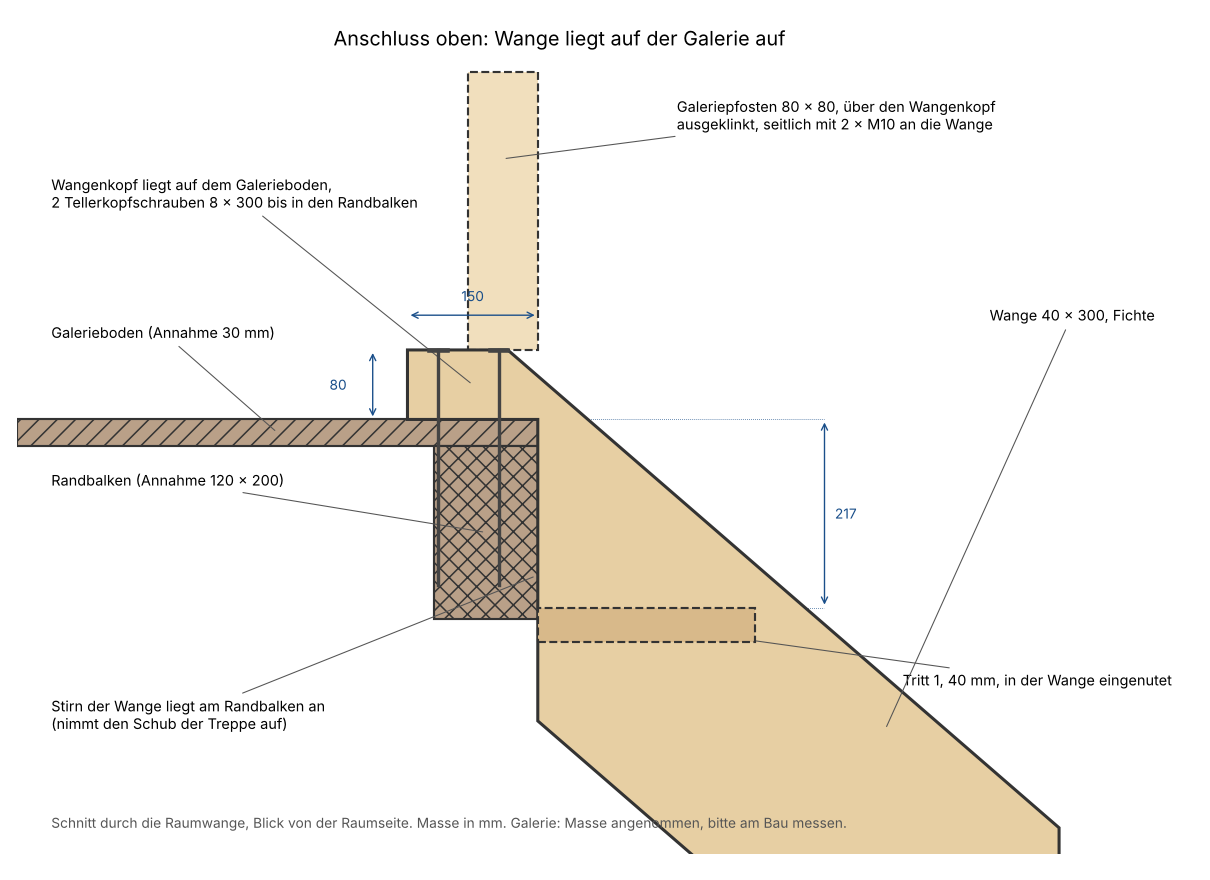
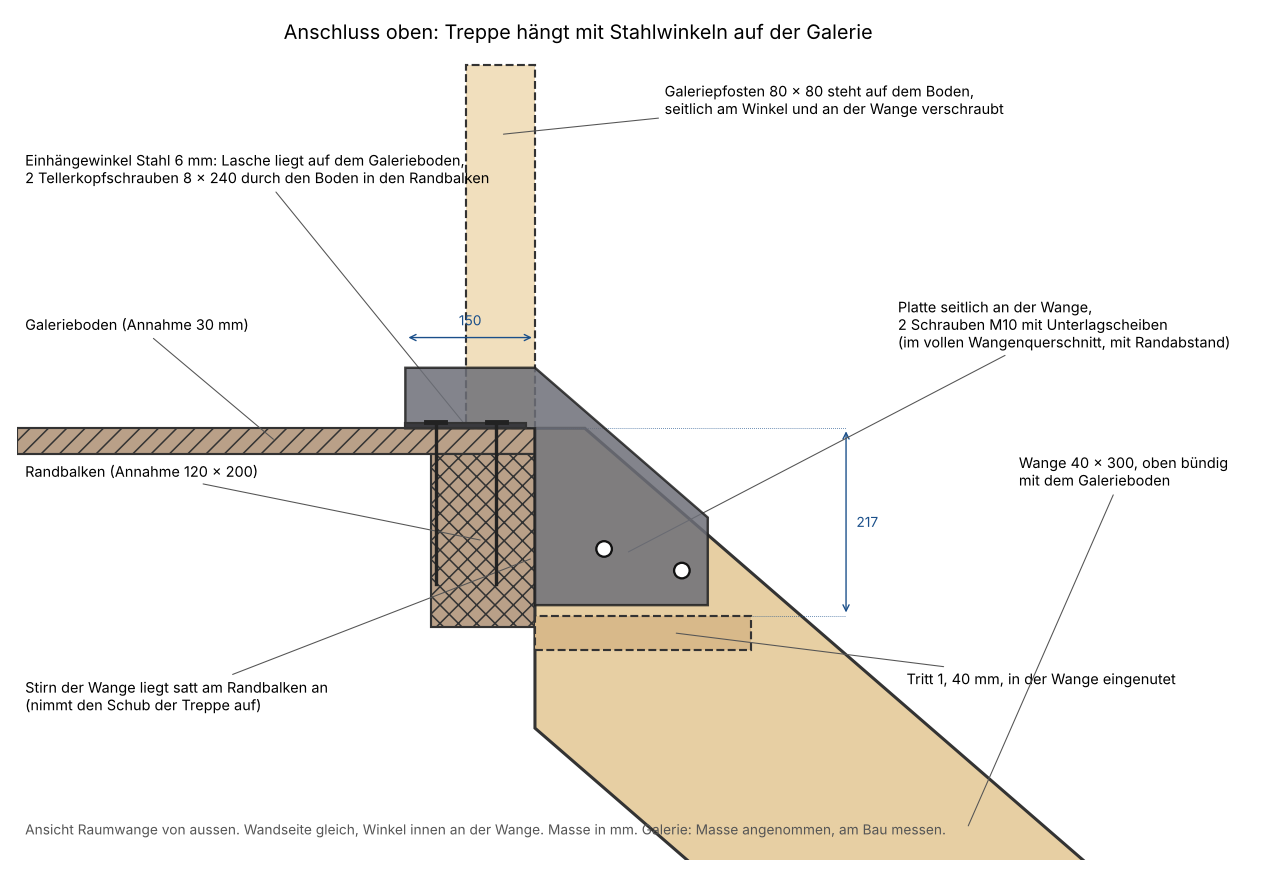
privat-haushalt: Treppe oben mit Stahl-Einhängewinkeln statt Holzkopf
Claude-Session: https://claude.ai/code/session_011MSKcWF1eNiWCkVJncpmSo

diff --git a/areas/privat-haushalt/treppe/schnitt_galerie.py b/areas/privat-haushalt/treppe/schnitt_galerie.py
@@ -1,46 +1,48 @@
-import sys; sys.argv=['x']
-exec(open('treppe_cq.py').read().split('# ================= Podest')[0])
-import math
-exec(open('treppe_cq.py').read().split('# ================= Obere Treppe =================')[1].split('treadsU = []')[0].replace('add(','dict(')) if False else None
+# Schnitt Anschluss oben an die Galerie (Ansicht Raumwange). Liest die Masse aus treppe_cq.py.
+import math, sys
+src = open('treppe_cq.py').read()
+exec(src.split('asm = cq.Assembly')[0])
 LU = lambda x: GAL - (HU / GU) * x
-dU = WB / math.cos(math.atan(HU / GU)); zRo = PH - BEL; RB=60
-x_k = (LU(0) + UEB - GAL - KH) * GU / HU
-prof = [(-HK, GAL), (-HK, GAL + KH), (x_k, GAL + KH), (600, LU(600) + UEB), (600, LU(600) + UEB - dU), (0, LU(0) + UEB - dU), (0, GAL)]
+dU = WB / math.cos(math.atan(HU / GU))
+x_top = (LU(0) + UEB - GAL) * GU / HU
+zW0 = GAL - HU + 12
+prof = [(0, GAL), (x_top, GAL), (650, LU(650) + UEB), (650, LU(650) + UEB - dU), (0, LU(0) + UEB - dU)]
+wink = [(-HK, GAL), (-HK, GAL + 70), (0, GAL + 70), (200, LU(200) + UEB + 20), (200, zW0), (0, zW0), (0, GAL)]
 import matplotlib; matplotlib.use("Agg"); import matplotlib.pyplot as plt
-from matplotlib.patches import Polygon, Rectangle
-fig, ax = plt.subplots(figsize=(11, 8))
-def P(pts, fc, ec="#333", lw=1.4, hatch=None, z=1, ls="-"):
-    ax.add_patch(Polygon(pts, closed=True, fc=fc, ec=ec, lw=lw, hatch=hatch, zorder=z, ls=ls))
-FI = "#e7cfa3"; BE = "#b9a088"
-# Bestand
+from matplotlib.patches import Polygon, Circle
+fig, ax = plt.subplots(figsize=(11.5, 8))
+def P(pts, fc, ec="#333", lw=1.4, hatch=None, z=1, ls="-", alpha=1):
+    ax.add_patch(Polygon(pts, closed=True, fc=fc, ec=ec, lw=lw, hatch=hatch, zorder=z, ls=ls, alpha=alpha))
+FI, BE, ST_ = "#e7cfa3", "#b9a088", "#3a3a3e"
 P([(-600, GAL-GB), (0, GAL-GB), (0, GAL), (-600, GAL)], BE, hatch="//")
 P([(-RBB, GAL-GB-RBH), (0, GAL-GB-RBH), (0, GAL-GB), (-RBB, GAL-GB)], BE, hatch="xx")
-# Wange (Schnitt durch Raumwange), Tritt 1, Pfosten, Handlauf
-P(prof, FI, lw=2, z=3)
-P([(0, GAL-HU-T), (GU, GAL-HU-T), (GU, GAL-HU), (0, GAL-HU)], "#d8b98a", z=4, ls="--")
-pz1 = 2700
-P([(-POST, GAL+KH), (0, GAL+KH), (0, pz1), (-POST, pz1)], "#f1dfbd", z=2, ls="--")
-# Schrauben
+P(prof, FI, lw=2, z=2)
+P([(0, GAL-HU-T), (GU, GAL-HU-T), (GU, GAL-HU), (0, GAL-HU)], "#d8b98a", z=3, ls="--")
+P([(-POST, GAL), (0, GAL), (0, 2720), (-POST, 2720)], "#f1dfbd", z=2, ls="--")
+P(wink, "#6d6f78", ec="#222", lw=1.6, z=5, alpha=0.85)
+P([(-HK, GAL), (-10, GAL), (-10, GAL+6), (-HK, GAL+6)], ST_, z=6)
+for (xx, zz) in [(80, zW0 + 65), (170, zW0 + 40)]:
+    ax.add_patch(Circle((xx, zz), 9, fc="white", ec="#111", lw=1.5, zorder=7))
 for xs in (-115, -45):
-    ax.plot([xs, xs], [GAL+KH, GAL-GB-RBH+40], color="#444", lw=2.2, zorder=6)
-    ax.plot([xs-10, xs+10], [GAL+KH, GAL+KH], color="#444", lw=3, zorder=6)
+    ax.plot([xs, xs], [GAL+6, GAL-GB-RBH+50], color="#222", lw=2.2, zorder=6)
+    ax.plot([xs-11, xs+11], [GAL+7, GAL+7], color="#222", lw=3.2, zorder=7)
 def dim(x0,y0,x1,y1,t,off=(0,0),ha="center"):
     ax.annotate("", (x0,y0), (x1,y1), arrowprops=dict(arrowstyle="<->", lw=0.9, color="#1a4f8a"))
     ax.text((x0+x1)/2+off[0], (y0+y1)/2+off[1], t, color="#1a4f8a", fontsize=9, ha=ha, va="center")
-dim(-HK, GAL+KH+40, 0, GAL+KH+40, f"{HK}", (0,22))
-dim(-HK-40, GAL, -HK-40, GAL+KH, f"{KH}", (-30,0), "right")
-dim(330, GAL, 330, GAL-HU, f"{HU:.0f}", (12,0), "left")
-ax.plot([0, 330], [GAL, GAL], color="#1a4f8a", lw=0.5, ls=":"); ax.plot([GU, 330], [GAL-HU, GAL-HU], color="#1a4f8a", lw=0.5, ls=":")
+dim(-HK, GAL+105, 0, GAL+105, f"{HK}", (0,20))
+dim(360, GAL, 360, GAL-HU, f"{HU:.0f}", (12,0), "left")
+ax.plot([0, 360], [GAL, GAL], color="#1a4f8a", lw=0.5, ls=":"); ax.plot([GU, 360], [GAL-HU, GAL-HU], color="#1a4f8a", lw=0.5, ls=":")
 def lab(x,y,tx,ty,t):
     ax.annotate(t, (x,y), (tx,ty), fontsize=9.5, arrowprops=dict(arrowstyle="-", lw=0.7, color="#555"), va="center")
-lab(-75, GAL+40, -560, 2560, "Wangenkopf liegt auf dem Galerieboden,\n2 Tellerkopfschrauben 8 × 300 bis in den Randbalken")
-lab(-2, 2120, -560, 1960, "Stirn der Wange liegt am Randbalken an\n(nimmt den Schub der Treppe auf)")
-lab(-300, GAL-15, -560, 2400, "Galerieboden (Annahme 30 mm)")
-lab(-60, 2170, -560, 2230, "Randbalken (Annahme 120 × 200)")
-lab(-40, 2600, 160, 2650, "Galeriepfosten 80 × 80, über den Wangenkopf\nausgeklinkt, seitlich mit 2 × M10 an die Wange")
-lab(120, GAL-HU-20, 420, 2000, "Tritt 1, 40 mm, in der Wange eingenutet")
-lab(400, LU(400)+UEB-60, 520, 2420, "Wange 40 × 300, Fichte")
-ax.text(-560, 1830, "Schnitt durch die Raumwange, Blick von der Raumseite. Masse in mm. Galerie: Masse angenommen, bitte am Bau messen.", fontsize=9, color="#555")
-ax.set_xlim(-600, 650); ax.set_ylim(1800, 2720); ax.set_aspect("equal"); ax.axis("off")
-ax.set_title("Anschluss oben: Wange liegt auf der Galerie auf", fontsize=13)
+lab(-80, GAL+3, -590, 2600, "Einhängewinkel Stahl 6 mm: Lasche liegt auf dem Galerieboden,\n2 Tellerkopfschrauben 8 × 240 durch den Boden in den Randbalken")
+lab(105, zW0 + 60, 420, 2420, "Platte seitlich an der Wange,\n2 Schrauben M10 mit Unterlagscheiben\n(im vollen Wangenquerschnitt, mit Randabstand)")
+lab(-2, 2150, -590, 1990, "Stirn der Wange liegt satt am Randbalken an\n(nimmt den Schub der Treppe auf)")
+lab(-300, GAL-15, -590, 2420, "Galerieboden (Annahme 30 mm)")
+lab(-60, 2170, -590, 2250, "Randbalken (Annahme 120 × 200)")
+lab(-40, 2640, 150, 2680, "Galeriepfosten 80 × 80 steht auf dem Boden,\nseitlich am Winkel und an der Wange verschraubt")
+lab(160, GAL-HU-20, 430, 2010, "Tritt 1, 40 mm, in der Wange eingenutet")
+lab(500, LU(500)+UEB-80, 560, 2250, "Wange 40 × 300, oben bündig\nmit dem Galerieboden")
+ax.text(-590, 1830, "Ansicht Raumwange von aussen. Wandseite gleich, Winkel innen an der Wange. Masse in mm. Galerie: Masse angenommen, am Bau messen.", fontsize=9, color="#555")
+ax.set_xlim(-600, 700); ax.set_ylim(1800, 2740); ax.set_aspect("equal"); ax.axis("off")
+ax.set_title("Anschluss oben: Treppe hängt mit Stahlwinkeln auf der Galerie", fontsize=13)
 plt.tight_layout(); plt.savefig("schnitt_galerie.png", dpi=110)

diff --git a/areas/privat-haushalt/treppe/treppe_cq.py b/areas/privat-haushalt/treppe/treppe_cq.py
@@ -26,8 +26,8 @@ HLB, HLH = 40, 60     # Handlauf Breite, Hoehe (senkrecht)
 ST = 40               # Gelaenderstab, aus der 40-mm-Platte geschnitten
 GEL = 900             # Handlaufhoehe ueber Trittkante
 GELP = 1000           # Gelaenderhoehe am Podest
-# Wangenkopf oben: liegt auf dem Galerieboden ueber dem Randbalken auf
-HK, KH = 150, 80      # Kopflaenge auf der Galerie, Kopfhoehe ueber Galerieboden
+# Einhaengewinkel oben (Stahl 6 mm): haengt auf dem Galerieboden, an die Wange geschraubt
+HK = 150              # Auflagelaenge auf der Galerie
 # Bestand Galerie (ANNAHME, am Bau messen): Boden 30 mm, Randbalken 120 x 200 direkt unter der Kante
 GB, RBB, RBH = 30, 120, 200
 
@@ -86,10 +86,11 @@ sh = 80 / math.cos(math.atan((zRu - 150) / (yF0 - yW1)))   # Strebe 60 x 80 (Rah
 add("Strebe_links", prism_yz([(yW1, 150), (yW1, 150 + sh), (yF0, zRu), (yF0, zRu - sh)], XP + 10, XP + 10 + sb))
 
 # ================= Obere Treppe =================
-x_k = (LU(0) + UEB - GAL - KH) * GU / HU   # wo die Wangenoberkante die Kopfhoehe erreicht
-profU = [(-HK, GAL), (-HK, GAL + KH), (x_k, GAL + KH), (XP, LU(XP) + UEB), (XP, zRo), (XP - RB, zRo),
-         (XP - RB, LU(XP - RB) + UEB - dU), (0, LU(0) + UEB - dU), (0, GAL)]
-# oben: Kopf liegt auf dem Galerieboden, Stirn liegt am Randbalken an; unten: Klaue auf dem Auflagerriegel
+x_top = (LU(0) + UEB - GAL) * GU / HU
+profU = [(0, GAL), (x_top, GAL), (XP, LU(XP) + UEB), (XP, zRo), (XP - RB, zRo),
+         (XP - RB, LU(XP - RB) + UEB - dU), (0, LU(0) + UEB - dU)]
+# oben: buendig mit Galerieboden, Stirn liegt am Randbalken an (Schub), getragen vom Einhaengewinkel;
+# unten: Klaue auf dem Auflagerriegel
 treadsU = []
 for k in range(1, NU + 1):
     z = GAL - k * HU
@@ -141,10 +142,25 @@ add("Lasche_unten_rechts", lasche_x(XP + PL, XP + PL + 6, PD - POST, PD + 90, lz
 hu = [(XP - 100, 1060), (XP - 40, 1160), (XP + POST / 2, 1060), (XP + POST / 2, 1160)]
 add("Lasche_oben_Raum", lasche_y(XP - 140, XP + POST, BU, BU + 6, 1010, 1200, hu), "stahl")
 
+# Einhaengewinkel oben: Platte seitlich an der Wange (2 x M10 durch die Wange),
+# oben abgewinkelte Lasche liegt auf dem Galerieboden (2 Tellerkopfschrauben 8 x 240 in den Randbalken)
+zW0 = GAL - HU + 12                      # Unterkante Platte, ueber Tritt 1
+winkel_pts = [(-HK, GAL), (-HK, GAL + 70), (0, GAL + 70), (200, LU(200) + UEB + 20), (200, zW0), (0, zW0), (0, GAL)]
+def winkel(y0, y1, ty0, ty1):
+    p = prism_xz(winkel_pts, y0, y1)
+    for (xx, zz) in [(80, zW0 + 65), (170, zW0 + 40)]:
+        p = p.cut(cq.Workplane("XZ", origin=(xx, y1 + 1, zz)).circle(5.5).extrude(y1 - y0 + 2))
+    t = box(-HK, -10, ty0, ty1, GAL, GAL + 6)
+    for xx in (-115, -45):
+        t = t.cut(cq.Workplane("XY", origin=(xx, (ty0 + ty1) / 2, GAL - 1)).circle(4.5).extrude(8))
+    return p.union(t)
+add("Einhaengewinkel_Raum", winkel(BU, BU + 6, BU + 6, BU + 66), "stahl")
+add("Einhaengewinkel_Wand", winkel(W, W + 6, W + 6, W + 66), "stahl")
+
 # ================= Gelaender =================
 # Oben: Handlauf ueber der Raumwange, zwischen Galeriepfosten und Podestpfosten vorne links
 gy0, gy1 = BU - HLB, BU
-add("Pfosten_Galerie", box(-POST, 0, BU - POST, BU, GAL, LU(0) + GEL + 30).cut(box(-POST, 0, BU - W, BU, GAL, GAL + KH)))  # ueber den Wangenkopf ausgeklinkt
+add("Pfosten_Galerie", box(-POST, 0, BU - POST, BU, GAL, LU(0) + GEL + 30))
 add("Handlauf_oben", prism_xz([(0, LU(0) + GEL), (XP, LU(XP) + GEL), (XP, LU(XP) + GEL - HLH), (0, LU(0) + GEL - HLH)], gy0, gy1))
 n = 8
 gap = (XP - n * ST) / (n + 1)
